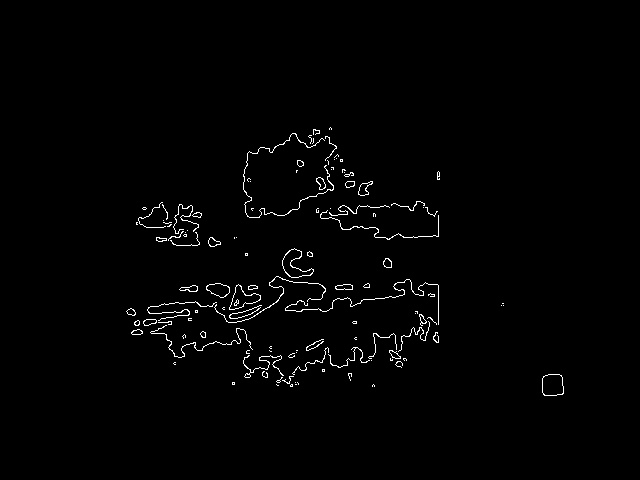
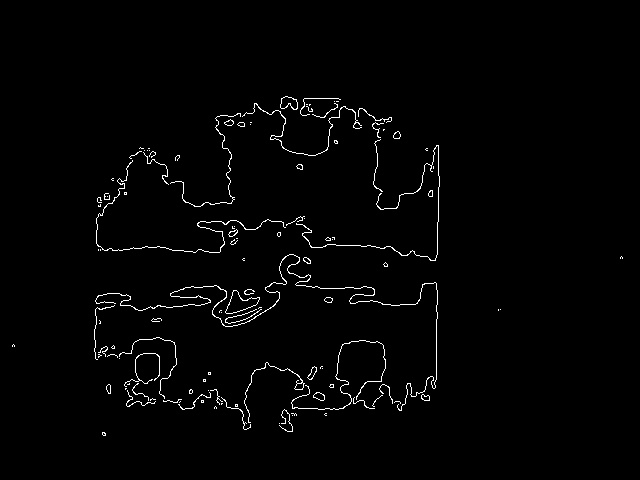
robust color filter

diff --git a/kinect.py b/kinect.py
@@ -126,7 +126,8 @@ class Kinect():
 
 	def convertHSVFrame(self):
 		try:
-			image = cv2.cvtColor(self.currentVideoFrame, cv2.COLOR_RGB2HSV)
+			image = self.currentVideoFrame
+			image = cv2.cvtColor(image, cv2.COLOR_RGB2HSV)
 			self.DepthH[...,0] = self.masking(image[...,0])
 			self.DepthH[...,1] = self.masking(image[...,0])
 			self.DepthH[...,2] = self.masking(image[...,0])
@@ -176,7 +177,7 @@ class Kinect():
 		except:
 			return None
 
-	def depthframeSampler(self, dt):
+	#def depthframeSampler(self, dt):
 		self.currentTime = time.clock()
 		if abs(self.currentTime - self.previousTime) > dt:
 			self.previousTime = self.currentTime
@@ -210,6 +211,8 @@ class Kinect():
 		# 		cy_w = xy_world[1]
 		# 		cz_w = .94 - z_w
 		# 		self.block_coordinates.append([cx_w,cy_w,cz_w])
+
+### Block Pose and Color determination functions ###
 
 	def centroidBlock(self, contour):
 			m = cv2.moments(contour)
@@ -286,6 +289,8 @@ class Kinect():
 	def detectBlocksInDepthImage(self):
 		image = self.currentVideoFrame.astype(np.float32)
 		image = cv2.GaussianBlur(image,(3,3),0)
+		cv2.imwrite("mask.jpg",self.BlockMask*255)
+		cv2.imwrite("RGBFrame.jpg",self.currentVideoFrame)
 		#cv2.imwrite("redimage.jpg",cv2.bitwise_and(self.currentVideoFrame[...,0],self.currentVideoFrame[...,0], mask = self.BlockMask))
 		#cv2.imwrite("greenimage.jpg",cv2.bitwise_and(self.currentVideoFrame[...,1],self.currentVideoFrame[...,1], mask = self.BlockMask))
 		#cv2.imwrite("blueimage.jpg",cv2.bitwise_and(self.currentVideoFrame[...,2],self.currentVideoFrame[...,2], mask = self.BlockMask))
@@ -310,6 +315,9 @@ class Kinect():
 			except:
 				return None
 
+		for x in self.blocks:
+			print('\n\n')
+			print(self.blocks[x])
 		contours = cv2.findContours(value_threshold, cv2.RETR_TREE,cv2.CHAIN_APPROX_SIMPLE)
 		self.block_contours = []
 		if len(contours) != 0:
@@ -357,13 +365,19 @@ class Kinect():
 		self.block_contours = contours
 
 	def colorbuckets(self):
+		cv2.imwrite("redframe.jpg",self.currentVideoFrame[...,0])
+		cv2.imwrite("greenframe.jpg",self.currentVideoFrame[...,1])
+		cv2.imwrite("blueframe.jpg",self.currentVideoFrame[...,2])
 
 		image = self.currentVideoFrame
 		image = cv2.GaussianBlur(image,(3,3),0)
-		image = cv2.cvtColor(image,cv2.COLOR_RGB2HSV)
-		value = image[...,2]
-		hue = image[...,0]
-		saturation = image[...,1]
+
+
+
+		image_hsv = cv2.cvtColor(image,cv2.COLOR_RGB2HSV)
+		value = image_hsv[...,2]
+		hue = image_hsv[...,0]
+		saturation = image_hsv[...,1]
 		hue_green = cv2.inRange(hue, 50, 70)
 		hue_blue = cv2.inRange(hue, 110, 130)
 		hue_yellow = cv2.inRange(hue, 20, 40)
@@ -372,7 +386,13 @@ class Kinect():
 		hue_pink = cv2.inRange(hue, 160, 170)
 		hue_purple = cv2.inRange(hue, 130,145)
 		value_black = cv2.inRange(value, 0 , 110)
-		value_pink = cv2.inRange(hue, 200, 255)
+		value_pink = cv2.inRange(value, 200, 255)
+		value_red = cv2.inRange(value,0, 200)
+		hue_orange_yellow = cv2.inRange(hue, 0,40)
+		saturation_yellow = cv2.inRange(saturation, 0, 40)
+		saturation_orange = cv2.inRange(saturation, 40, 255)
+		hue_red_pink = cv2.inRange(hue, 155, 179)
+
 
 		self.roi = cv2.bitwise_and(hue, hue, mask = self.BlockMask)
 		red = cv2.bitwise_and(hue_red, hue_red, mask = self.BlockMask)
@@ -384,6 +404,14 @@ class Kinect():
 		purple = cv2.bitwise_and(hue_purple, hue_purple, mask = self.BlockMask)
 		orange = cv2.bitwise_and(hue_orange, hue_orange, mask = self.BlockMask)
 		black = cv2.bitwise_and(value_black,value_black, mask = self.BlockMask)
+		orange_yellow = cv2.bitwise_and(hue_orange_yellow, hue_orange_yellow, mask = self.BlockMask)
+		red_pink = cv2.bitwise_and(hue_red_pink, hue_red_pink, mask = self.BlockMask)
+
+		orange = cv2.bitwise_and(orange_yellow, saturation_orange, mask = self.BlockMask)
+		yellow = cv2.bitwise_and(orange_yellow, saturation_yellow, mask = self.BlockMask)
+		red = cv2.bitwise_and(red_pink, value_red, mask = self.BlockMask)
+		pink = cv2.bitwise_and(red_pink, value_pink, mask = self.BlockMask)
+
 
 		cv2.imwrite("red.jpg", red)
 		cv2.imwrite("orange.jpg", orange)
@@ -396,6 +424,7 @@ class Kinect():
 
 		return green, blue, yellow, red, orange, purple, pink, black
 
+### Depth RGB Calibration Transformation ###
 	def getAffineTransform(self, coord1, coord2):
 		"""
 		Given 2 sets of corresponding coordinates,
@@ -456,6 +485,7 @@ class Kinect():
 					transformedDepthFrame[y_t][x_t] = frame[y][x]
 		return transformedDepthFrame
 
+### Workspace Pixel Calibration Functions ###
 	def loadCameraCalibration(self):
 		self.intrinsic_matrix = np.array([[990.75, 0.0, 331.10],[0.0, 988.20, 230.94],[0.0, 0.0, 1.0]])
 		return self.intrinsic_matrix
@@ -478,6 +508,29 @@ class Kinect():
 		self.intrinsic_matrix_inverse = self.intrinsic_matrix_inverse.astype(np.float32)
 		return self.intrinsic_matrix_inverse
 
+### Extrinsic Intrinsic Matrix Solution ###
+	def workspaceTransform(self, image_points):
+		camera_intrinsic_matrix = self.loadCameraCalibration()
+		dist_coeffs = np.array([[0.997871942, -8.92181313,  -.00374535215,  .0174515494, 35.0210420]]).astype(np.float32)
+		self.intrinsic_matrix_inverse_f()
+
+		length = 0.610
+		d = self.currentDepthFrame[image_points[0][1]][image_points[0][0]]
+
+		self.Z_c =  0.1236*tan(d/2842.5 + 1.1863)
+		image_points = image_points[:4]
+		object_points = np.array([[0.0, 0.0, 0.0],[0.0, length, 0.0],[length, length, 0.0],[length, 0.0, 0.0]]).astype(np.float32)
+
+		###Finding extrinsic matrix and its inverse
+		(success, rot_vec, trans_vec) = cv2.solvePnP(object_points, image_points.astype(np.float32), camera_intrinsic_matrix, dist_coeffs, flags=cv2.SOLVEPNP_ITERATIVE)
+		rot_mat = cv2.Rodrigues(rot_vec)
+		rotation_matrix_w2c  = np.append(rot_mat[0],[[0,0,0]],axis = 0)
+		extrinsic_matrix = np.concatenate((rotation_matrix_w2c, np.append(trans_vec,[[1]], axis = 0)), axis = 1)
+		extrinsic_matrix_inv = np.linalg.inv(extrinsic_matrix)
+		self.work_camera_extrinsic_inv = extrinsic_matrix_inv
+		return self.work_camera_extrinsic_inv
+
+### Affine Solution ###
 	def affineworkspace(self, coordinates):
 		d = 0.305
 		pts2 = np.array([[-d, d],[-d, -d],[d, -d],[d, d],[0.0, 0.0]]).astype(np.float32)
@@ -520,27 +573,7 @@ class Kinect():
 		self.workcamera_affine = vector_x.reshape(2,3)
 		return self.workcamera_affine
 
-	def workspaceTransform(self, image_points):
-		camera_intrinsic_matrix = self.loadCameraCalibration()
-		dist_coeffs = np.array([[0.997871942, -8.92181313,  -.00374535215,  .0174515494, 35.0210420]]).astype(np.float32)
-		self.intrinsic_matrix_inverse_f()
-
-		length = 0.610
-		d = self.currentDepthFrame[image_points[0][1]][image_points[0][0]]
-
-		self.Z_c =  0.1236*tan(d/2842.5 + 1.1863)
-		image_points = image_points[:4]
-		object_points = np.array([[0.0, 0.0, 0.0],[0.0, length, 0.0],[length, length, 0.0],[length, 0.0, 0.0]]).astype(np.float32)
-
-		###Finding extrinsic matrix and its inverse
-		(success, rot_vec, trans_vec) = cv2.solvePnP(object_points, image_points.astype(np.float32), camera_intrinsic_matrix, dist_coeffs, flags=cv2.SOLVEPNP_ITERATIVE)
-		rot_mat = cv2.Rodrigues(rot_vec)
-		rotation_matrix_w2c  = np.append(rot_mat[0],[[0,0,0]],axis = 0)
-		extrinsic_matrix = np.concatenate((rotation_matrix_w2c, np.append(trans_vec,[[1]], axis = 0)), axis = 1)
-		extrinsic_matrix_inv = np.linalg.inv(extrinsic_matrix)
-		self.work_camera_extrinsic_inv = extrinsic_matrix_inv
-		return self.work_camera_extrinsic_inv
-
+### Automated Calibration Functions ###
 	def auto_canny(self,image, sigma):
 		#image = cv2.GaussianBlur(image, (5,5),0)
 		v = np.median(image)
@@ -644,3 +677,4 @@ class Kinect():
 
 		self.corners_depth = [depth_corner_lb, depth_corner_lt, depth_corner_rt, depth_corner_rb]
 		self.corners_rgb = [rgb_corner_lb, rgb_corner_lt, rgb_corner_rt, rgb_corner_rb]
+

diff --git a/state_machine.py b/state_machine.py
@@ -176,8 +176,7 @@ class StateMachine():
 		pixel_coordinates = np.array([[x*1.75],[y*1.764],[1]]).astype(np.float32)
 
 		camera_coordinates = np.matmul(self.kinect.intrinsic_matrix_inverse,pixel_coordinates)
-		camera_coordinates = np.append(camera_coordinates,[[1]],axis=0)
-		print(camera_coordinates)
+		camera_coordinates = np.append(camera_coordinates,[[1]], axis=0)
 
 		xy_world = np.matmul(self.kinect.work_camera_extrinsic_inv, camera_coordinates)
 		x = xy_world[0] - 0.208
